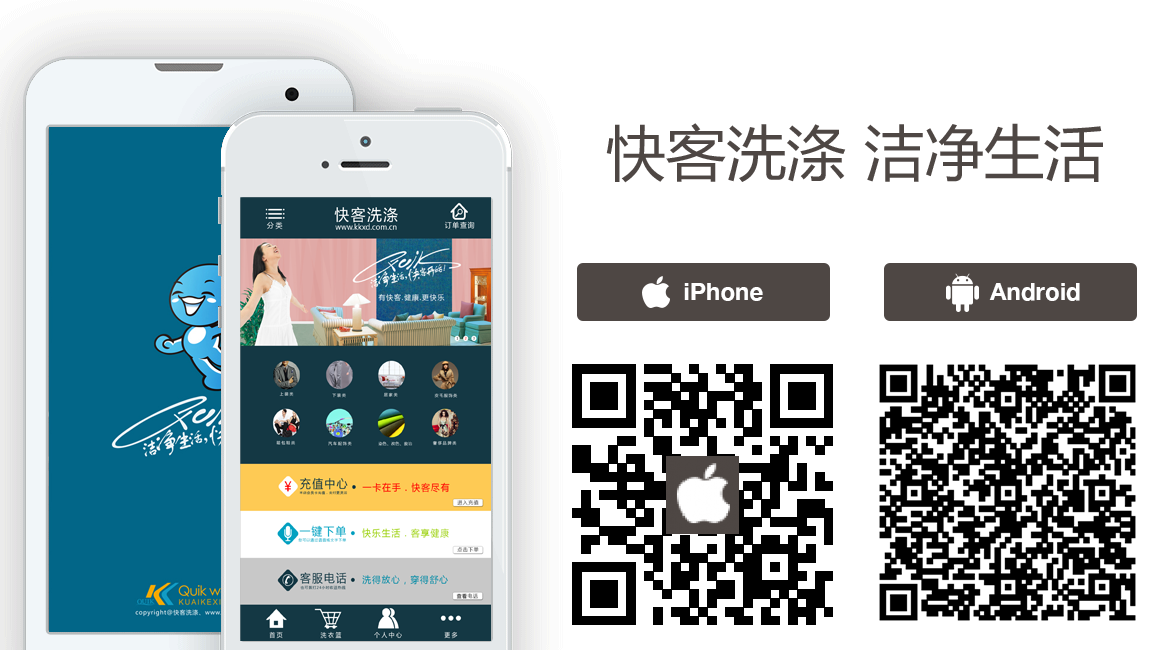
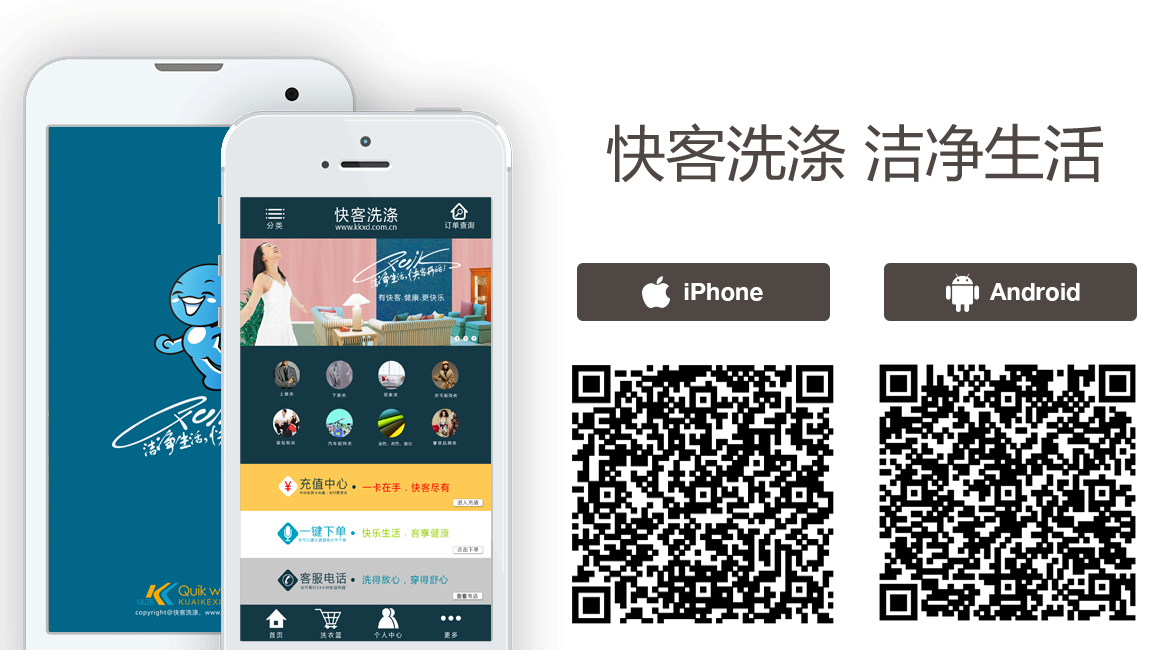
实现IOS APP扫描二维码下载功能

Changed region(s): [[0.4923, 0.5538, 0.7385, 0.9846]]

diff --git a/code/server/Admin/Tpl/ADManage/introduct.html b/code/server/Admin/Tpl/ADManage/introduct.html
@@ -12,7 +12,7 @@
 						<p>&nbsp;&nbsp;&nbsp;&nbsp;公司概况：贵州省金州快客清洁服务有限公司经过长期的策划和筹备，于2014年12月1日正式成立，注册资金200万元，自有多名掌握较好的干洗技术的技术骨干和多名从事多年家政保洁的员工，经集中进行专业技术及道德的培训，我公司员工自身素质较好。
 						</p>
 						<p>
-						&nbsp;&nbsp;&nbsp;&nbsp;企业文化：洗涤满意、服务满意、形象满意、尊重顾客、理解顾客持续提供超越顾客期望的产品的服务与质量；自我完善服务系统，加强洗前上门收取、前后消毒干洗中、洗净后送回的服务，队顾客在洗涤衣物中出现的各种问题及时帮助解决，让顾客们感到极大的方便。
+						&nbsp;&nbsp;&nbsp;&nbsp;企业文化：洗涤满意、服务满意、形象满意、尊重顾客、理解顾客持续提供超越顾客期望的产品的服务与质量；自我完善服务系统，加强洗前上门收取、前后消毒干洗中、洗净后送回的服务，对顾客在洗涤衣物中出现的各种问题及时帮助解决，让顾客们感到极大的方便。
 						</p>
 						<p>
 						&nbsp;&nbsp;&nbsp;&nbsp;公司产品：快客洗涤干洗加盟店、洗涤技术咨询与培训、洗涤设备销售、命名为“快客洗涤”的手机APP。

diff --git a/code/server/Admin/Tpl/AppDownload/kuaikexidi_ios.html b/code/server/Admin/Tpl/AppDownload/kuaikexidi_ios.html
@@ -1,0 +1,4 @@
+<script type="text/javascript">
+    //用于Session失效后的页面跳转
+    window.location.href='https://itunes.apple.com/cn/app/kuai-ke-xi-di/id963489193?mt=8';
+</Script>

diff --git a/code/server/Admin/Lib/Action/AppDownloadAction.class.php b/code/server/Admin/Lib/Action/AppDownloadAction.class.php
@@ -4,9 +4,4 @@
 class AppDownloadAction extends Action 
 {
 
-	public function kuaikexidi_IOS()
-	{
-		
-	}
-
 }
